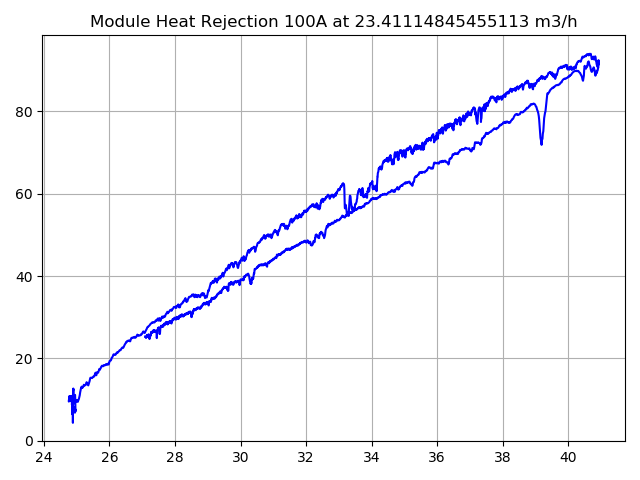
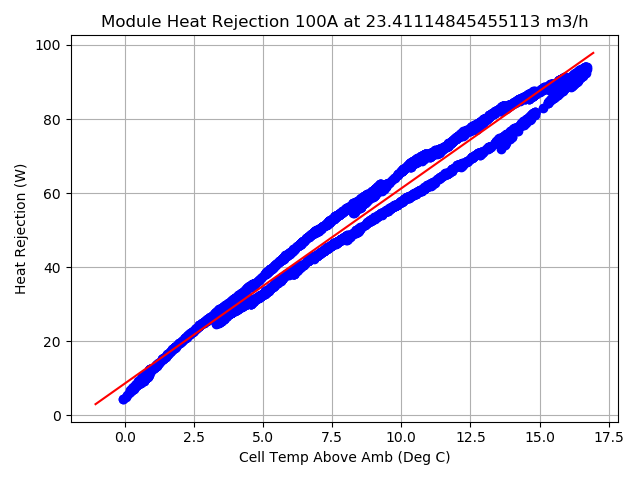
Added Linear Fit to Cell Temp data

diff --git a/Python Plotting/TestPlots.py b/Python Plotting/TestPlots.py
@@ -182,6 +182,7 @@ elif(user_input == 4):
 	cell_temps = np.zeros((indexes.size, 3, 8))
 	cell_temps_bottom = np.zeros((indexes.size, 3, 8))
 	cell_temp_average = np.array([])
+	cell_temp_average_above_amb = np.array([])
 	heat_rejection = np.array([])
 	
 	#fill the cell temps
@@ -206,15 +207,28 @@ elif(user_input == 4):
 		
 		average_temp /= num_cells
 		cell_temp_average = np.append(cell_temp_average, average_temp)
+		cell_temp_average_above_amb = np.append(cell_temp_average_above_amb, average_temp - data['EXT_TEMP_1'][index])
 		
 		heat_w = calc_heat_rejection(air_flow_m3_h, data['EXT_TEMP_1'][index], data['EXT_TEMP_2'][index])
 		heat_rejection = np.append(heat_rejection, heat_w)
 
+
+	#linear fit for rate of heat rejection
+	#https://stackoverflow.com/questions/6148207/linear-regression-with-matplotlib-numpy
+	coef = np.polyfit(cell_temp_average_above_amb, heat_rejection, 1)
+	print('Heat = ' + str(coef[0]) + ' x Cell Temp + ' + str(coef[1]))
+	poly1d_fn = np.poly1d(coef)
+	
+	#plotting the graphs
 	fig, ax = plt.subplots()
 
-	ax.plot(cell_temp_average, heat_rejection, 'b-')
+	cell_temp_dist = np.arange(np.amin(cell_temp_average_above_amb)-1, np.amax(cell_temp_average_above_amb)+1)
+	ax.plot(cell_temp_average_above_amb, heat_rejection, 'bo')
+	ax.plot(cell_temp_dist, poly1d_fn(cell_temp_dist), 'r-')
 	title = 'Module Heat Rejection ' + title_input
 	ax.set_title(title + ' at ' + str(air_flow_m3_h) + ' m3/h')
+	ax.set_ylabel('Heat Rejection (W)')
+	ax.set_xlabel('Cell Temp Above Amb (Deg C)')
 	
 	
 plt.grid()
